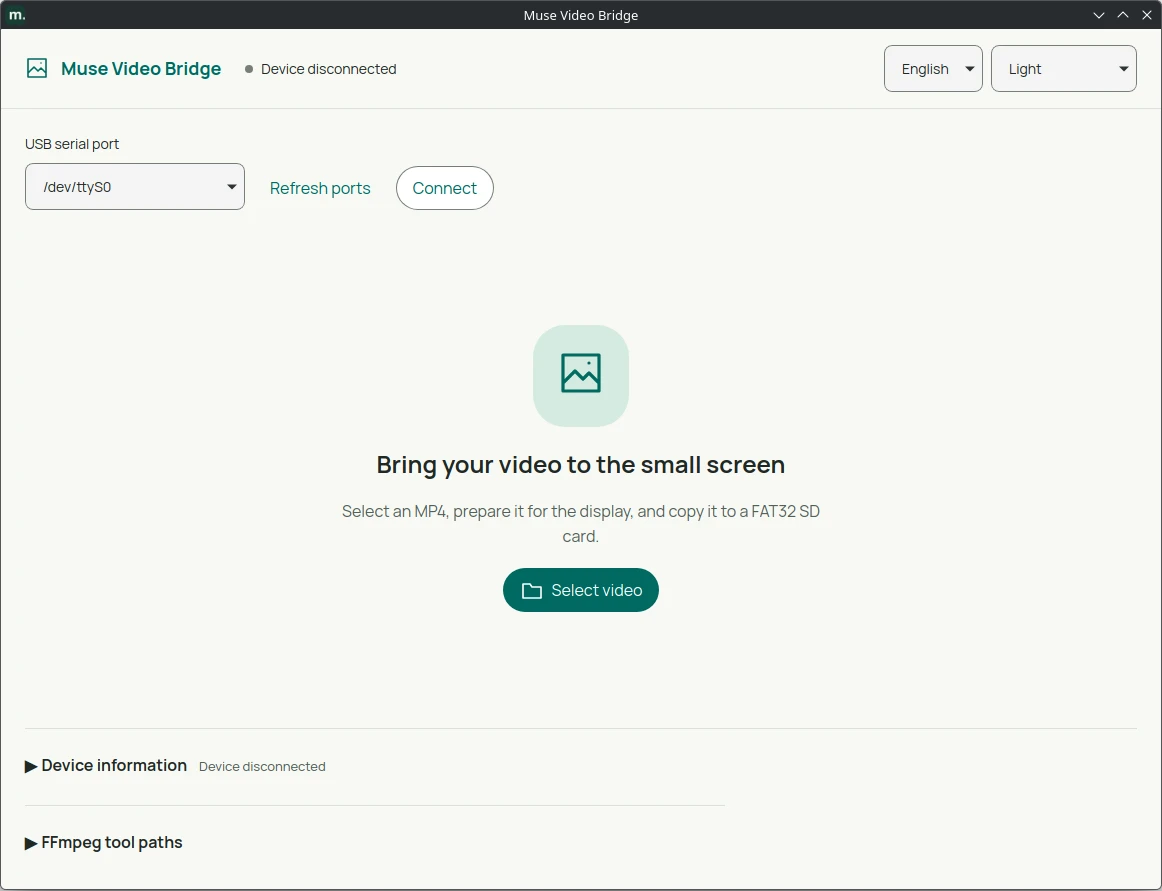
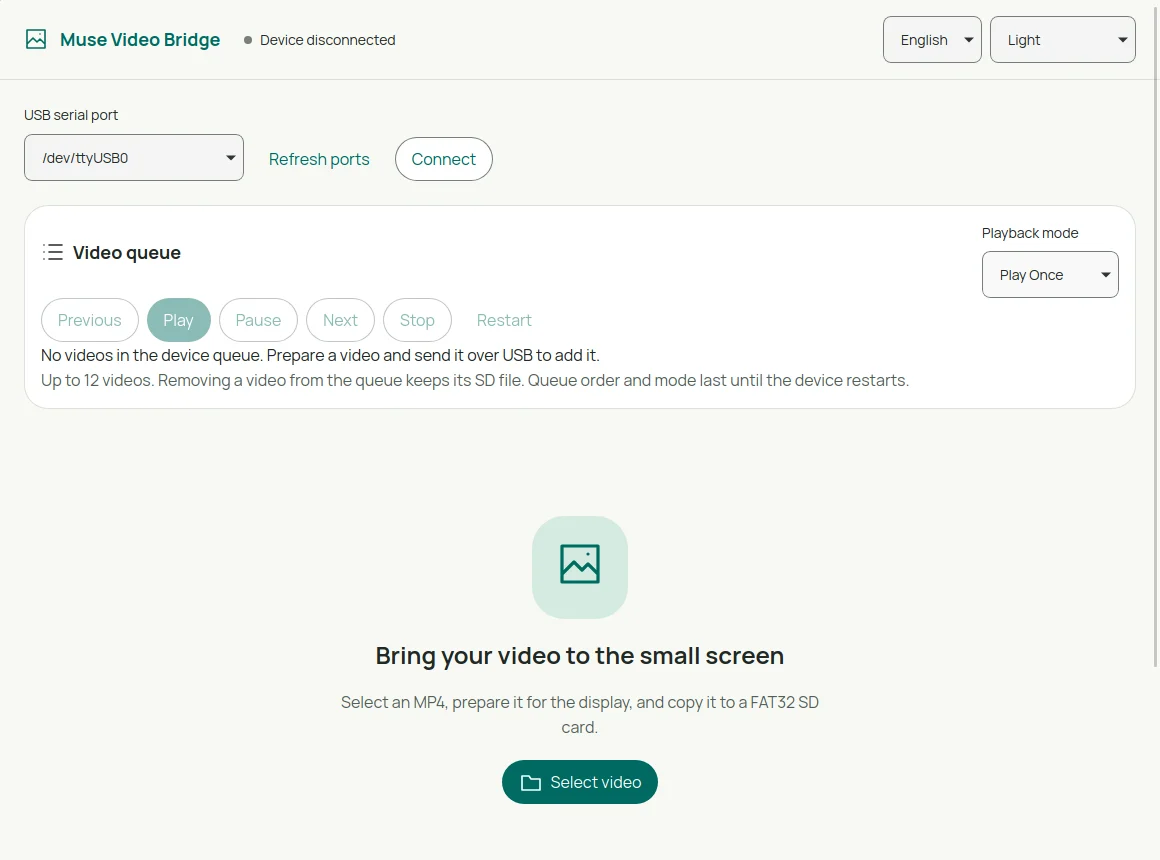
Update Muse Video Bridge catalog to the 0.4.0 pre-release

diff --git a/src/data/apps.ts b/src/data/apps.ts
@@ -21,18 +21,26 @@ export const apps: MuseApp[] = [
       {
         src: "/assets/video-bridge-desktop.webp",
         alt: {
-          tr: "Muse Video Bridge 0.3.0 Linux masaüstü uygulamasının İngilizce, açık temalı başlangıç ekranı; USB bağlantısı henüz kurulmamış",
-          en: "Muse Video Bridge 0.3.0's Linux desktop start screen in English and light theme, with the USB device disconnected",
+          tr: "Muse Video Bridge 0.4.0 Linux masaüstü uygulamasının İngilizce, açık temalı başlangıç ekranı; USB bağlantısı henüz kurulmamış",
+          en: "Muse Video Bridge 0.4.0's Linux desktop start screen in English and light theme, with the USB device disconnected",
         },
         caption: {
-          tr: "Muse Video Bridge 0.3.0 · Linux · İngilizce · Açık tema · Cihaz bağlı değil",
-          en: "Muse Video Bridge 0.3.0 · Linux · English · Light theme · Device disconnected",
+          tr: "Muse Video Bridge 0.4.0 · Linux · İngilizce · Açık tema · Cihaz bağlı değil",
+          en: "Muse Video Bridge 0.4.0 · Linux · English · Light theme · Device disconnected",
         },
-        width: 1162,
-        height: 891,
+        width: 1160,
+        height: 860,
       },
     ],
     features: [
+      {
+        tr: "En fazla 12 videoluk kuyruk: seç, sırala, çıkar, önceki/sonraki videoya geç. Bir kez oynat, geçerli videoyu döngüye al veya tüm kuyruğu döngüye al; masaüstü cihazın gerçek durumunu izler.",
+        en: "A queue for up to 12 videos: select, reorder, remove, and navigate previous/next. Play Once, Loop Current, and Loop Queue share the device's confirmed playback state.",
+      },
+      {
+        tr: "Gerçek aktarım ve doğrulama ilerlemesi; ölçülemeyen hazırlık adımları yüzde uydurmadan gösterilir. CYD dokunmatik kontrolleri dört saniye sonra gizlenir; fiziksel dokunma doğrulaması henüz yapılmadı.",
+        en: "Real transfer and verification progress, with indeterminate preparation steps shown honestly. CYD touch controls hide after four seconds; physical touch acceptance remains unverified.",
+      },
       {
         tr: "Yerel MP4 videolarını kalite ve kare hızı seçenekleriyle indeksli JPEG videoya dönüştürür; hesap veya bulut servisi gerekmez.",
         en: "Convert local MP4 files to indexed JPEG video with quality and frame-rate controls; no account or cloud service is required.",
@@ -42,8 +50,8 @@ export const apps: MuseApp[] = [
         en: "Transfer over USB serial to the installed microSD card, with acknowledged progress, size and SHA-256 verification, cancellation, and interrupted-transfer recovery.",
       },
       {
-        tr: "ESP32-2432S028R / CYD üzerinde 320×240 tam ekran oynatma. Önceki gerçek cihaz ölçümünde beş aktif dakika boyunca 29,80 FPS elde edildi; ayrı, ortalanmış 304×224 denemeleri yaklaşık 29,97 FPS gördü.",
-        en: "Full-screen 320×240 playback on ESP32-2432S028R / CYD. Previous real-device measurements sustained 29.80 FPS over five active minutes; separate centered 304×224 runs reached approximately 29.97 FPS.",
+        tr: "ESP32-2432S028R / CYD üzerinde 320×240 tam ekran oynatma. Önceki gerçek cihaz ölçümünde beş aktif dakika boyunca 29,80 FPS elde edildi. Yeni 0.4.0 denemesinde ilk kontrol katmanlı klip hariç 19 tam ekran klipte 228 aktif saniye boyunca 29,73 FPS ölçüldü; dokunma kontrolleri deneyseldir.",
+        en: "Full-screen 320×240 playback on ESP32-2432S028R / CYD. Previous real-device measurements sustained 29.80 FPS over five active minutes. The new 0.4.0 run measured 29.73 FPS over 228 active seconds across 19 full-screen clips, excluding the initial overlay-affected clip; touch remains experimental.",
       },
       {
         tr: "Oynat, duraklat, devam ettir, durdur, yeniden başlat ve konum ara; boyut, konum, 90° dönüş ve hedef FPS ayarlarıyla gerçek FPS ve cihaz telemetrisini izle.",
@@ -63,8 +71,8 @@ export const apps: MuseApp[] = [
           en: "CachyOS x86-64 · GTK3 / WebKitGTK 4.1",
         },
         notes: {
-          tr: "0.3.0 taşınabilir arşivi ve AppImage açılışı yeni test edildi; AppImage doğrudan FUSE ve çıkarıp çalıştırma modunda açıldı ve temiz kapandı. USB aktarımı ve oynatma önceki gerçek Linux/cihaz testlerinde doğrulandı; bu sürümde yeni fiziksel USB testi yapılmadı.",
-          en: "Standalone 0.3.0 tar and AppImage launch were newly tested; AppImage rendered and closed cleanly through direct FUSE and extract-and-run modes. USB transfer and playback were verified in previous real Linux/device tests; this release did not repeat physical USB testing.",
+          tr: "0.4.0 taşınabilir arşivi ve AppImage doğrudan FUSE ve çıkarıp çalıştırma modunda açıldı, görüntülendi ve temiz kapandı. Kuyruk ve döngü modları gerçek Linux/USB cihazında test edildi; fiziksel dokunma ve ekran görünümü doğrulanmadı.",
+          en: "Standalone 0.4.0 tar and AppImage rendered and closed cleanly through direct FUSE and extract-and-run modes. Queue and loop modes were tested on the real Linux/USB device; physical taps and display appearance remain unverified.",
         },
       },
       {
@@ -86,8 +94,8 @@ export const apps: MuseApp[] = [
         en: "A resistive 2.8-inch ESP32-2432S028R CYD with an ILI9341 display; check the board revision and documented pinout before flashing.",
       },
       {
-        tr: "Cihazda takılı FAT32 microSD kart, veri aktarabilen USB kablosu ve uyumlu Muse Video Bridge ESP32 yazılımı. Uygulama kartı biçimlendirmez.",
-        en: "An installed FAT32 microSD card, a USB data cable, and compatible Muse Video Bridge firmware. The application does not format the card.",
+        tr: "Cihazda takılı FAT32 microSD kart, veri aktarabilen USB kablosu ve v0.4.0 ile gelen Muse Video Bridge ESP32 yazılımı. Uygulama kartı biçimlendirmez.",
+        en: "An installed FAT32 microSD card, a USB data cable, and Muse Video Bridge firmware from v0.4.0. The application does not format the card.",
       },
       {
         tr: "Windows 10/11 x64 için WebView2 Runtime ve gerekirse CH340 sürücüsü; Linux x86-64 için glibc 2.34+, GTK3, WebKitGTK 4.1, libudev, FFmpeg/FFprobe 8+ ve seri port erişimi.",
@@ -114,12 +122,20 @@ export const apps: MuseApp[] = [
     ],
     limitations: [
       {
+        tr: "0.4.0 bir ön sürümdür. Dokunmatik kontroller deneyseldir: gözlemlenemeyen donanım denemelerinde temas algılandı ve kontrol katmanı kısa süre göründü. Fiziksel kalibrasyon ve dokunma doğrulaması tamamlanmadı.",
+        en: "0.4.0 is a pre-release. Touch controls are experimental: unobserved hardware runs registered contacts and briefly showed the overlay. Physical calibration and touch acceptance are incomplete.",
+      },
+      {
+        tr: "Fiziksel dokunma, panel kalibrasyonu ve ekran görünümü doğrulanmadı. Kuyruk sırası, döngü modu ve yerel önizleme kayıtları oturuma aittir; cihaz yeniden başlatılınca gerçek durum yeniden okunur.",
+        en: "Physical taps, panel calibration and display appearance are unverified. Queue order, loop mode and local preview registrations are session state; reconnect refreshes the device's actual state.",
+      },
+      {
         tr: "Windows doğrulaması Server 2025 üzerindeki sınırlı CI açılış/dönüşüm testiyle sınırlıdır; Windows 10/11 etkileşimli kullanım ve fiziksel USB/oynatma henüz test edilmedi. Linux çalıştırma testi CachyOS x86-64 ile sınırlıdır; DEB/RPM kurulumu Debian, Ubuntu, Fedora ve openSUSE üzerinde doğrulanmadı.",
         en: "Windows verification is limited to the Server 2025 CI launch/conversion smoke; interactive Windows 10/11 use and physical USB/playback remain untested. Linux runtime testing is limited to CachyOS x86-64; DEB/RPM installation on Debian, Ubuntu, Fedora, and openSUSE is unverified.",
       },
       {
-        tr: "FPS değerleri önceki donanım ölçümleridir; her video için garanti değildir. Yaklaşık 29,97 FPS sonucu ayrı bir denemedendir, beş dakikalık 320×240 sonucu değildir.",
-        en: "FPS figures are previous hardware measurements and are not guarantees for every video. The approximately 29.97 FPS result is from a separate run, not the five-minute 320×240 measurement.",
+        tr: "FPS değerleri test videosuna ve ölçüm süresine bağlıdır; her video için garanti değildir. 0.4.0 ölçümünde ilk kontrol katmanlı klip hariç tutuldu; bu sonuç dokunmatik kontrolleri doğrulamaz.",
+        en: "FPS figures depend on the test video and measurement duration, and are not guarantees for every video. The 0.4.0 measurement excludes the initial overlay-affected clip and does not qualify touch controls.",
       },
       {
         tr: "ESP32 yazılımı kaynak kodu ve derleme talimatlarıyla sunulur; bu sürüm önceden derlenmiş bir cihaz yazılımı veya yükleme kiti içermez. Kurulum için belgelenen PlatformIO araçları gerekir.",
@@ -134,15 +150,15 @@ export const apps: MuseApp[] = [
         en: "USB transfer uses 115200 baud and is slow for large videos. Playback pauses during transfer; all power-loss scenarios have not been qualified.",
       },
     ],
-    version: "0.3.0",
-    releaseDate: "2026-11-14",
+    version: "0.4.0",
+    releaseDate: "2026-11-15",
     releaseUrl:
-      "https://github.com/ysf-kul/musevideobridge/releases/tag/v0.3.0",
+      "https://github.com/ysf-kul/musevideobridge/releases/tag/v0.4.0",
     downloads: [
       {
         label: { tr: "AppImage · x86-64", en: "AppImage · x86-64" },
         platform: "Linux",
-        url: "https://github.com/ysf-kul/musevideobridge/releases/download/v0.3.0/Muse-Video-Bridge-0.3.0-Linux-x86_64.AppImage",
+        url: "https://github.com/ysf-kul/musevideobridge/releases/download/v0.4.0/Muse-Video-Bridge-0.4.0-Linux-x86_64.AppImage",
         size: "4.1 MiB",
       },
       {
@@ -151,25 +167,25 @@ export const apps: MuseApp[] = [
           en: "Portable archive · x86-64",
         },
         platform: "Linux",
-        url: "https://github.com/ysf-kul/musevideobridge/releases/download/v0.3.0/Muse-Video-Bridge-0.3.0-Linux-x86_64.tar.gz",
+        url: "https://github.com/ysf-kul/musevideobridge/releases/download/v0.4.0/Muse-Video-Bridge-0.4.0-Linux-x86_64.tar.gz",
         size: "3.8 MiB",
       },
       {
         label: { tr: "DEB paketi · amd64", en: "DEB package · amd64" },
         platform: "Linux",
-        url: "https://github.com/ysf-kul/musevideobridge/releases/download/v0.3.0/Muse-Video-Bridge-0.3.0-Linux-amd64.deb",
+        url: "https://github.com/ysf-kul/musevideobridge/releases/download/v0.4.0/Muse-Video-Bridge-0.4.0-Linux-amd64.deb",
         size: "3.8 MiB",
       },
       {
         label: { tr: "RPM paketi · x86-64", en: "RPM package · x86-64" },
         platform: "Linux",
-        url: "https://github.com/ysf-kul/musevideobridge/releases/download/v0.3.0/Muse-Video-Bridge-0.3.0-Linux-x86_64.rpm",
+        url: "https://github.com/ysf-kul/musevideobridge/releases/download/v0.4.0/Muse-Video-Bridge-0.4.0-Linux-x86_64.rpm",
         size: "3.9 MiB",
       },
       {
         label: { tr: "Taşınabilir ZIP · x64", en: "Portable ZIP · x64" },
         platform: "Windows",
-        url: "https://github.com/ysf-kul/musevideobridge/releases/download/v0.3.0/Muse-Video-Bridge-0.3.0-Windows-x64-portable.zip",
+        url: "https://github.com/ysf-kul/musevideobridge/releases/download/v0.4.0/Muse-Video-Bridge-0.4.0-Windows-x64-portable.zip",
         size: "12.2 MiB",
       },
     ],
